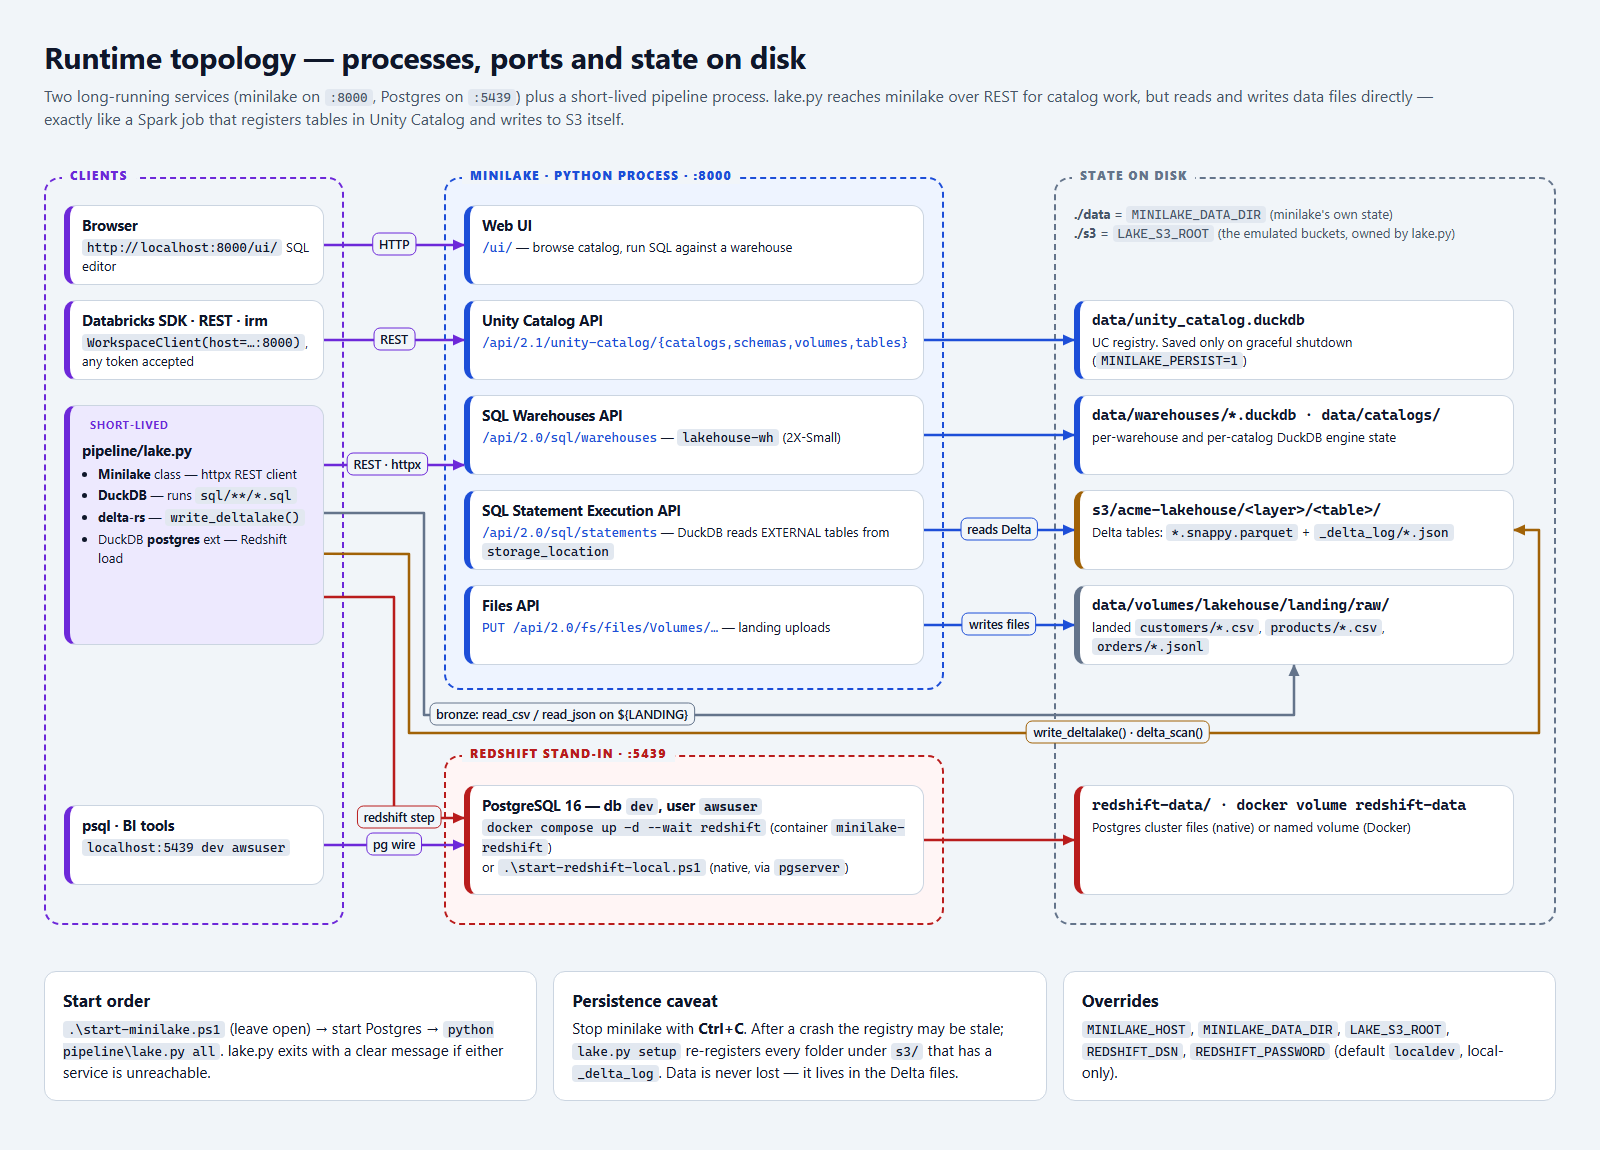
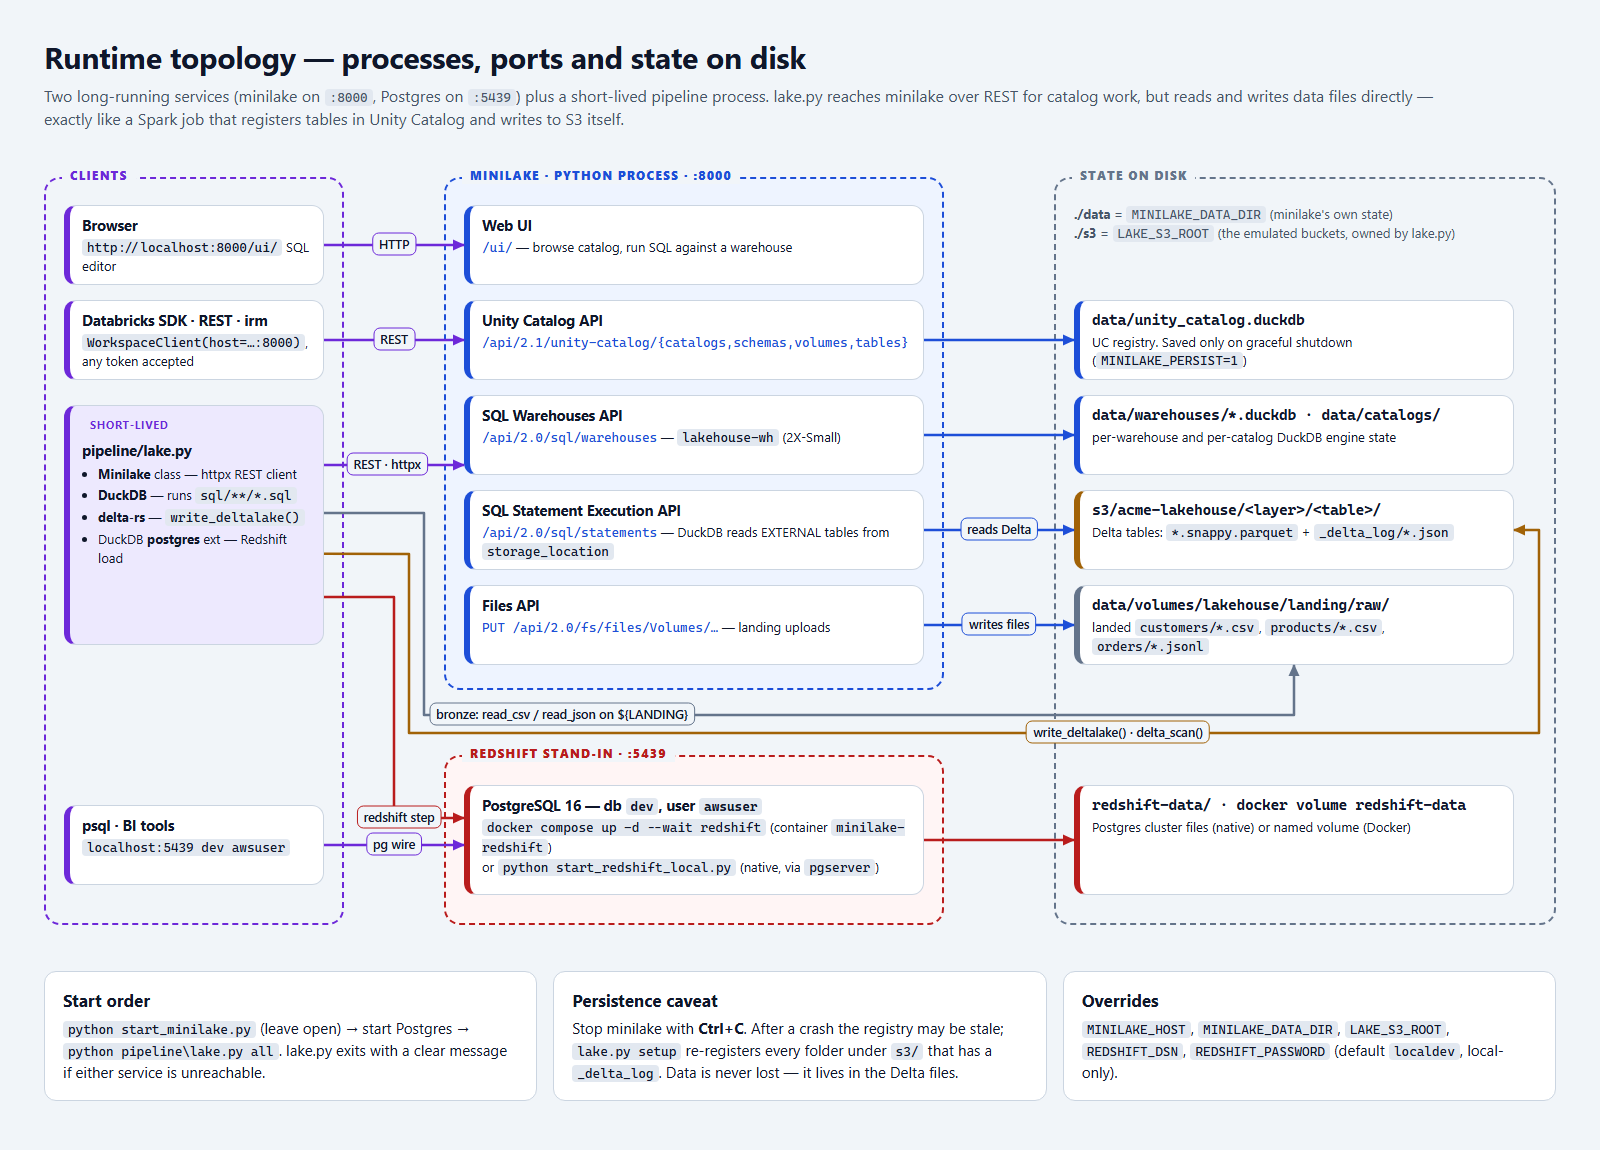
replace ps1 with python

Changed region(s): [[0.0312, 0.8826, 0.3125, 0.9435], [0.3125, 0.7304, 0.5625, 0.7609]]

diff --git a/docs/diagrams/02-runtime-topology.html b/docs/diagrams/02-runtime-topology.html
@@ -45,7 +45,7 @@ lake.py reaches minilake over REST for catalog work, but reads and writes data f
     <div class="card sm b-uc" id="files" style="left:420px; top:430px; width:460px"><h3>Files API</h3><span class="api mono">PUT /api/2.0/fs/files/Volumes/…</span> — landing uploads</div>
 
     <div class="card sm b-rs" id="pg" style="left:420px; top:630px; width:460px; height:110px"><h3>PostgreSQL 16 — db <code>dev</code>, user <code>awsuser</code></h3>
-        <code>docker compose up -d --wait redshift</code> (container <code>minilake-redshift</code>)<br>or <code>.\start-redshift-local.ps1</code> (native, via <code>pgserver</code>)</div>
+        <code>docker compose up -d --wait redshift</code> (container <code>minilake-redshift</code>)<br>or <code>python start_redshift_local.py</code> (native, via <code>pgserver</code>)</div>
 
     <div class="pos" style="left:1030px; top:50px; width:440px; color: var(--muted); font-size: 13px">
         <b>./data</b> = <code>MINILAKE_DATA_DIR</code> (minilake's own state)<br><b>./s3</b> = <code>LAKE_S3_ROOT</code> (the emulated buckets, owned by lake.py)</div>
@@ -57,7 +57,7 @@ lake.py reaches minilake over REST for catalog work, but reads and writes data f
 </div>
 
 <div class="grid3" style="margin-top: 26px">
-    <div class="card"><h3>Start order</h3><code>.\start-minilake.ps1</code> (leave open) → start Postgres → <code>python pipeline\lake.py all</code>. lake.py exits with a clear message if either service is unreachable.</div>
+    <div class="card"><h3>Start order</h3><code>python start_minilake.py</code> (leave open) → start Postgres → <code>python pipeline\lake.py all</code>. lake.py exits with a clear message if either service is unreachable.</div>
     <div class="card"><h3>Persistence caveat</h3>Stop minilake with <b>Ctrl+C</b>. After a crash the registry may be stale; <code>lake.py setup</code> re-registers every folder under <code>s3/</code> that has a <code>_delta_log</code>. Data is never lost — it lives in the Delta files.</div>
     <div class="card"><h3>Overrides</h3><code>MINILAKE_HOST</code>, <code>MINILAKE_DATA_DIR</code>, <code>LAKE_S3_ROOT</code>, <code>REDSHIFT_DSN</code>, <code>REDSHIFT_PASSWORD</code> (default <code>localdev</code>, local-only).</div>
 </div>

diff --git a/docs/diagrams/diagram.css b/docs/diagrams/diagram.css
@@ -1,4 +1,4 @@
-/* Shared look for the component diagrams. Each page is rendered to docs/img/<name>.png by render.ps1. */
+/* Shared look for the component diagrams. Each page is rendered to docs/img/<name>.png by render.py. */
 :root {
     --ink: #0f172a;
     --muted: #475569;

diff --git a/start_redshift_local.py b/start_redshift_local.py
@@ -1,0 +1,85 @@
+#!/usr/bin/env python3
+"""Docker-free Redshift stand-in: a native PostgreSQL 16 (from the `pgserver` wheel)
+on Redshift's port 5439, with Redshift's default database/user (dev / awsuser).
+
+    python start_redshift_local.py          # init (first run) + start
+    python start_redshift_local.py --stop   # stop
+"""
+import argparse
+import os
+import subprocess
+import sys
+import tempfile
+from pathlib import Path
+
+ROOT = Path(__file__).resolve().parent
+DATA = ROOT / "redshift-data"
+LOG = DATA / "server.log"
+
+
+def pg_bin() -> Path:
+    try:
+        import pgserver
+    except ImportError:
+        sys.exit("pgserver not installed. Run: pip install pgserver")
+    bin_dir = Path(pgserver.__file__).parent / "pginstall" / "bin"
+    if not bin_dir.is_dir():
+        sys.exit(f"pgserver binaries not found in {bin_dir}")
+    return bin_dir
+
+
+def main() -> int:
+    ap = argparse.ArgumentParser(description=__doc__, formatter_class=argparse.RawDescriptionHelpFormatter)
+    ap.add_argument("--stop", action="store_true", help="stop the server")
+    ap.add_argument("--port", type=int, default=5439)
+    ap.add_argument("--password", default=os.environ.get("REDSHIFT_PASSWORD", "localdev"))
+    args = ap.parse_args()
+
+    bin_dir = pg_bin()
+    suffix = ".exe" if os.name == "nt" else ""
+
+    def tool(name: str) -> str:
+        return str(bin_dir / (name + suffix))
+
+    if args.stop:
+        return subprocess.run([tool("pg_ctl"), "-D", str(DATA), "stop", "-m", "fast"]).returncode
+
+    if not (DATA / "PG_VERSION").is_file():
+        fd, pwfile = tempfile.mkstemp()
+        try:
+            with os.fdopen(fd, "w") as f:
+                f.write(args.password)
+            subprocess.run([tool("initdb"), "-D", str(DATA), "-U", "awsuser", f"--pwfile={pwfile}",
+                            "-A", "scram-sha-256", "-E", "UTF8", "--no-locale"],
+                           check=True, stdout=subprocess.DEVNULL)
+        finally:
+            os.remove(pwfile)
+
+    ready = subprocess.run([tool("pg_isready"), "-h", "127.0.0.1", "-p", str(args.port), "-q"])
+    if ready.returncode != 0:
+        # Don't pipe pg_ctl's output: the server would inherit the pipe and this script would hang.
+        # On Windows, CREATE_NO_WINDOW also keeps the server out of this console's Ctrl+C.
+        flags = subprocess.CREATE_NO_WINDOW if os.name == "nt" else 0
+        start = subprocess.run(
+            [tool("pg_ctl"), "-D", str(DATA), "-l", str(LOG),
+             "-o", f"-p {args.port} -c listen_addresses=localhost", "-w", "start"],
+            stdin=subprocess.DEVNULL, stdout=subprocess.DEVNULL, stderr=subprocess.DEVNULL,
+            creationflags=flags)
+        if start.returncode != 0:
+            sys.exit(f"pg_ctl start failed; see {LOG}")
+
+    env = {**os.environ, "PGPASSWORD": args.password}
+    common = ["-h", "localhost", "-p", str(args.port), "-U", "awsuser"]
+    exists = subprocess.run([tool("psql"), *common, "-d", "postgres", "-tAc",
+                             "select 1 from pg_database where datname='dev'"],
+                            env=env, capture_output=True, text=True, check=True).stdout.strip()
+    if exists != "1":
+        subprocess.run([tool("createdb"), *common, "dev"], env=env, check=True)
+
+    print(f"Redshift stand-in ready: host=localhost port={args.port} dbname=dev user=awsuser")
+    print(f'psql: "{tool("psql")}" -h localhost -p {args.port} -U awsuser -d dev')
+    return 0
+
+
+if __name__ == "__main__":
+    sys.exit(main())

diff --git a/docs/diagrams/render.py b/docs/diagrams/render.py
@@ -1,0 +1,74 @@
+#!/usr/bin/env python3
+"""Render every docs/diagrams/*.html to docs/img/<name>.png with headless Chrome, Chromium or Edge.
+
+Each page declares its canvas size in <meta name="viewport-size" content="WIDTHxHEIGHT">.
+
+    python docs/diagrams/render.py              # all diagrams
+    python docs/diagrams/render.py 05-lineage   # one diagram
+"""
+import argparse
+import os
+import re
+import shutil
+import subprocess
+import sys
+import tempfile
+from pathlib import Path
+
+HERE = Path(__file__).resolve().parent
+OUT = HERE.parent / "img"
+
+
+def find_browser() -> str:
+    candidates = []
+    if os.name == "nt":
+        for base in filter(None, (os.environ.get("ProgramFiles"), os.environ.get("ProgramFiles(x86)"),
+                                  os.environ.get("LOCALAPPDATA"))):
+            candidates += [Path(base, "Google", "Chrome", "Application", "chrome.exe"),
+                           Path(base, "Microsoft", "Edge", "Application", "msedge.exe")]
+    elif sys.platform == "darwin":
+        candidates += [Path("/Applications/Google Chrome.app/Contents/MacOS/Google Chrome"),
+                       Path("/Applications/Chromium.app/Contents/MacOS/Chromium"),
+                       Path("/Applications/Microsoft Edge.app/Contents/MacOS/Microsoft Edge")]
+    for c in candidates:
+        if c.is_file():
+            return str(c)
+    for name in ("google-chrome", "google-chrome-stable", "chromium", "chromium-browser",
+                 "microsoft-edge", "microsoft-edge-stable", "chrome", "msedge"):
+        exe = shutil.which(name)
+        if exe:
+            return exe
+    sys.exit("Chrome, Chromium or Edge is required to render the diagrams.")
+
+
+def main() -> int:
+    ap = argparse.ArgumentParser(description=__doc__, formatter_class=argparse.RawDescriptionHelpFormatter)
+    ap.add_argument("only", nargs="?", help="render just this diagram (file name without .html)")
+    args = ap.parse_args()
+
+    browser = find_browser()
+    OUT.mkdir(parents=True, exist_ok=True)
+    pages = [p for p in sorted(HERE.glob("*.html")) if not args.only or p.stem == args.only]
+    if not pages:
+        sys.exit(f"no diagram named {args.only!r}")
+
+    with tempfile.TemporaryDirectory(prefix="minilake-diagrams-") as user_data:
+        for page in pages:
+            m = re.search(r'name="viewport-size" content="(\d+)x(\d+)"', page.read_text(encoding="utf-8"))
+            if not m:
+                sys.exit(f"{page.name} has no viewport-size meta tag")
+            png = OUT / f"{page.stem}.png"
+            png.unlink(missing_ok=True)
+            result = subprocess.run(
+                [browser, "--headless=new", "--disable-gpu", "--hide-scrollbars",
+                 "--force-device-scale-factor=1", f"--user-data-dir={user_data}",
+                 f"--window-size={m[1]},{m[2]}", f"--screenshot={png}", page.as_uri()],
+                stdout=subprocess.DEVNULL, stderr=subprocess.DEVNULL)
+            if not png.is_file():
+                sys.exit(f"render failed for {page.name} (exit {result.returncode})")
+            print(f"  {page.name} -> docs/img/{png.name}")
+    return 0
+
+
+if __name__ == "__main__":
+    sys.exit(main())

diff --git a/start_minilake.py b/start_minilake.py
@@ -1,0 +1,72 @@
+#!/usr/bin/env python3
+"""Start minilake with persistent Unity Catalog state rooted in this folder.
+
+The embedded JupyterLab (UI > Notebooks) is on unless --no-notebook is given; it needs
+the notebook extra: pip install "minilake[notebook]".
+
+    python start_minilake.py                  # port 8000, notebooks on
+    python start_minilake.py --port 8001 --no-notebook
+"""
+import argparse
+import importlib.util
+import os
+import shutil
+import socket
+import subprocess
+import sys
+import sysconfig
+from pathlib import Path
+
+ROOT = Path(__file__).resolve().parent
+
+
+def find_minilake() -> str:
+    exe = shutil.which("minilake")
+    if exe:
+        return exe
+    # pip --user installs scripts into a folder that is often not on PATH.
+    scheme = "nt_user" if os.name == "nt" else "posix_user"
+    scripts = Path(sysconfig.get_path("scripts", scheme))
+    for name in ("minilake.exe", "minilake"):
+        if (scripts / name).is_file():
+            return str(scripts / name)
+    sys.exit("minilake not found. Run: pip install minilake")
+
+
+def main() -> int:
+    ap = argparse.ArgumentParser(description=__doc__, formatter_class=argparse.RawDescriptionHelpFormatter)
+    ap.add_argument("--port", type=int, default=8000)
+    ap.add_argument("--no-notebook", action="store_true", help="start without the embedded JupyterLab")
+    args = ap.parse_args()
+
+    env = os.environ.copy()
+    env["MINILAKE_DATA_DIR"] = str(ROOT / "data")
+    env["MINILAKE_PERSIST"] = "1"
+    env["MINILAKE_NOTEBOOK"] = "0" if args.no_notebook else "1"
+
+    if not args.no_notebook and importlib.util.find_spec("jupyterlab") is None:
+        print('WARNING: jupyterlab is not installed, so Notebooks will be unavailable. '
+              'Run: pip install "minilake[notebook]"', file=sys.stderr)
+
+    with socket.socket() as s:
+        if s.connect_ex(("127.0.0.1", args.port)) == 0:
+            sys.exit(f"Port {args.port} is already in use; minilake is probably already running. "
+                     f"Stop it with Ctrl+C in its terminal, or use --port.")
+
+    exe = find_minilake()
+    print(f"minilake data dir: {env['MINILAKE_DATA_DIR']}")
+    print(f"API: http://localhost:{args.port}   SQL editor: http://localhost:{args.port}/ui/")
+    if not args.no_notebook:
+        print(f"Notebooks: http://localhost:{args.port}/ui/notebooks/  (files in {Path('data', 'notebooks')})")
+
+    proc = subprocess.Popen([exe, "--port", str(args.port)], env=env)
+    # Ctrl+C reaches minilake too; keep waiting so it can save the UC registry on shutdown.
+    while True:
+        try:
+            return proc.wait()
+        except KeyboardInterrupt:
+            continue
+
+
+if __name__ == "__main__":
+    sys.exit(main())

diff --git a/pipeline/lake.py b/pipeline/lake.py
@@ -79,7 +79,7 @@ class Minilake:
         try:
             r = self.http.request(method, path, **kwargs)
         except httpx.ConnectError:
-            sys.exit(f"Cannot reach minilake at {HOST}. Start it with .\\start-minilake.ps1")
+            sys.exit(f"Cannot reach minilake at {HOST}. Start it with: python start_minilake.py")
         if r.status_code >= 400:
             raise RuntimeError(f"{method} {path} -> {r.status_code}: {r.text}")
         return r

diff --git a/README.md b/README.md
@@ -52,7 +52,7 @@ a comment taken from the first line of its SQL file. The SQL warehouse is `lakeh
 - Python 3.11+ and `pip install -r requirements.txt` (minilake with its `notebook` extra for
   JupyterLab, deltalake, duckdb, pyarrow, httpx)
 - The `minilake` command on PATH. pip installs it into your user Scripts folder; if PowerShell
-  says it is not recognised, add that folder to PATH. `start-minilake.ps1` finds it either way.
+  says it is not recognised, add that folder to PATH. `start_minilake.py` finds it either way.
 - For Redshift, one of:
   - Docker Desktop (`docker compose`), or
   - `pip install pgserver`, which provides native PostgreSQL binaries without Docker.
@@ -63,11 +63,11 @@ a comment taken from the first line of its SQL file. The SQL warehouse is `lakeh
 cd D:\git\minilake
 
 # 1. Start the Databricks/Unity Catalog emulator (leave this terminal open; stop with Ctrl+C)
-.\start-minilake.ps1
+python start_minilake.py
 
 # 2. In a second terminal, start the Redshift stand-in (pick one)
 docker compose up -d --wait redshift        # Docker
-.\start-redshift-local.ps1                  # no Docker
+python start_redshift_local.py              # no Docker
 
 # 3. Build everything: UC objects -> land files -> bronze -> silver -> gold -> Redshift -> verify
 python pipeline\lake.py all
@@ -176,7 +176,7 @@ development password only.
 ```powershell
 # Docker
 docker exec -it minilake-redshift psql -U awsuser -d dev
-# native (start-redshift-local.ps1 prints the full psql path)
+# native (start_redshift_local.py prints the full psql path)
 ```
 
 ```sql
@@ -212,7 +212,7 @@ the files in the current version.
 
 ## Operating notes and limits
 
-- **Shut minilake down with Ctrl+C.** With `MINILAKE_PERSIST=1`, which `start-minilake.ps1`
+- **Shut minilake down with Ctrl+C.** With `MINILAKE_PERSIST=1`, which `start_minilake.py`
   sets, the UC registry is saved only on graceful shutdown. After a crash or a killed process,
   run `python pipeline\lake.py setup`. It recreates the catalog objects and re-registers every
   Delta table under `s3/`; the data is never lost because it lives in the Delta files.
@@ -232,9 +232,9 @@ the files in the current version.
 
 | Path | Purpose |
 |---|---|
-| [start-minilake.ps1](./start-minilake.ps1) | Starts minilake on :8000 with data in `./data`, persistence on, and the embedded JupyterLab on (`-NoNotebook` to turn it off) |
+| [start_minilake.py](./start_minilake.py) | Starts minilake on :8000 with data in `./data`, persistence on, and the embedded JupyterLab on (`--no-notebook` to turn it off) |
 | [docker-compose.yml](./docker-compose.yml) | Redshift stand-in (Postgres 16 on :5439) |
-| [start-redshift-local.ps1](./start-redshift-local.ps1) | Same stand-in without Docker (`-Stop` to stop); data in `./redshift-data` |
+| [start_redshift_local.py](./start_redshift_local.py) | Same stand-in without Docker (`--stop` to stop); data in `./redshift-data` |
 | [pipeline/lake.py](./pipeline/lake.py) | UC setup, landing, layer runner, Redshift loader, verify, reset |
 | [sql/bronze](./sql/bronze), [sql/silver](./sql/silver), [sql/gold](./sql/gold) | One SELECT per table |
 | [requirements.txt](./requirements.txt) | Python dependencies |

diff --git a/docs/USER_GUIDE.md b/docs/USER_GUIDE.md
@@ -27,7 +27,7 @@ For how the data gets there, see [README.md](../README.md) and [COMPONENTS.md](.
 ## Before you start
 
 ```powershell
-.\start-minilake.ps1                 # leave running; stop with Ctrl+C
+python start_minilake.py             # leave running; stop with Ctrl+C
 python pipeline\lake.py all          # first time only: builds the lakehouse
 ```
 
@@ -235,8 +235,8 @@ opens in `data\notebooks`, which starts with two example notebooks from minilake
 - As the footer says, **Spark does not run in the kernel**. Spark code runs in job containers, which
   need Docker; see the quickstart notebook.
 
-Notebooks need the `notebook` extra, which `requirements.txt` installs. `start-minilake.ps1` turns
-them on by default. To start without them, use `.\start-minilake.ps1 -NoNotebook`. In that case,
+Notebooks need the `notebook` extra, which `requirements.txt` installs. `start_minilake.py` turns
+them on by default. To start without them, use `python start_minilake.py --no-notebook`. In that case,
 or if `jupyterlab` is missing, this page shows **"Notebooks are turned off"**.
 
 ---

diff --git a/docs/COMPONENTS.md b/docs/COMPONENTS.md
@@ -1,11 +1,11 @@
 # Components, explained with diagrams
 
 Each diagram is an HTML page in [diagrams/](./diagrams) and is rendered to a PNG in [img/](./img). To
-re-render after editing a page, run this from the repo root. It needs Chrome or Edge.
+re-render after editing a page, run this from the repo root. It needs Chrome, Chromium or Edge.
 
 ```powershell
-.\docs\diagrams\render.ps1                  # all diagrams
-.\docs\diagrams\render.ps1 06-bronze-orders # one diagram
+python docs/diagrams/render.py                   # all diagrams
+python docs/diagrams/render.py 06-bronze-orders  # one diagram
 ```
 
 Row counts and example records in the diagrams come from the tables as they were when the
